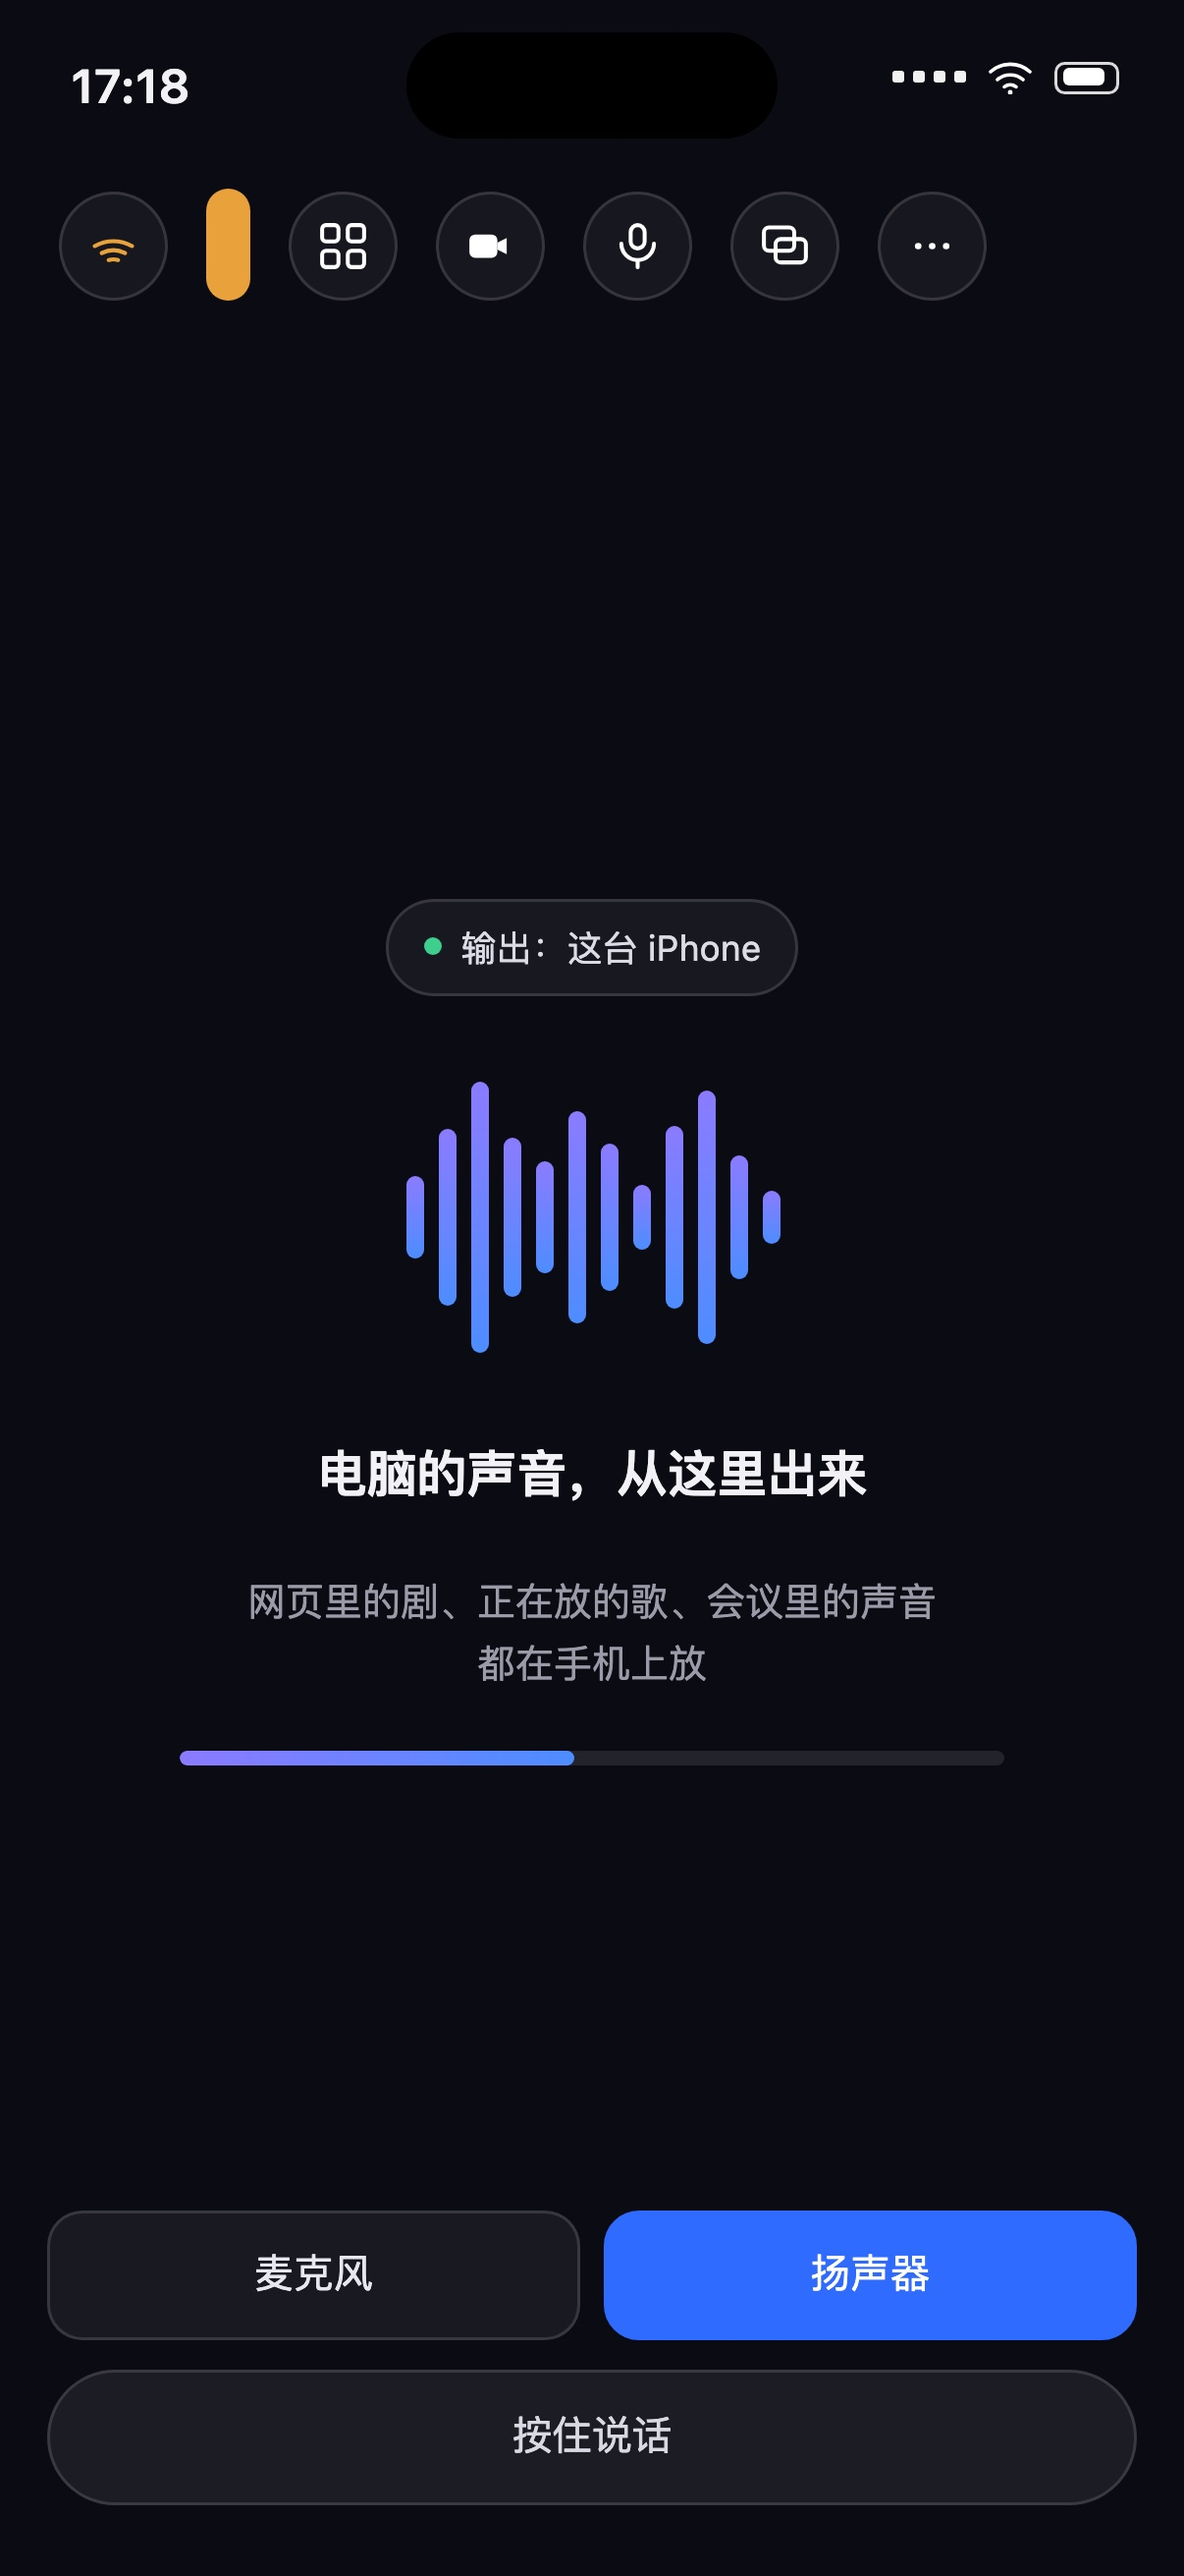
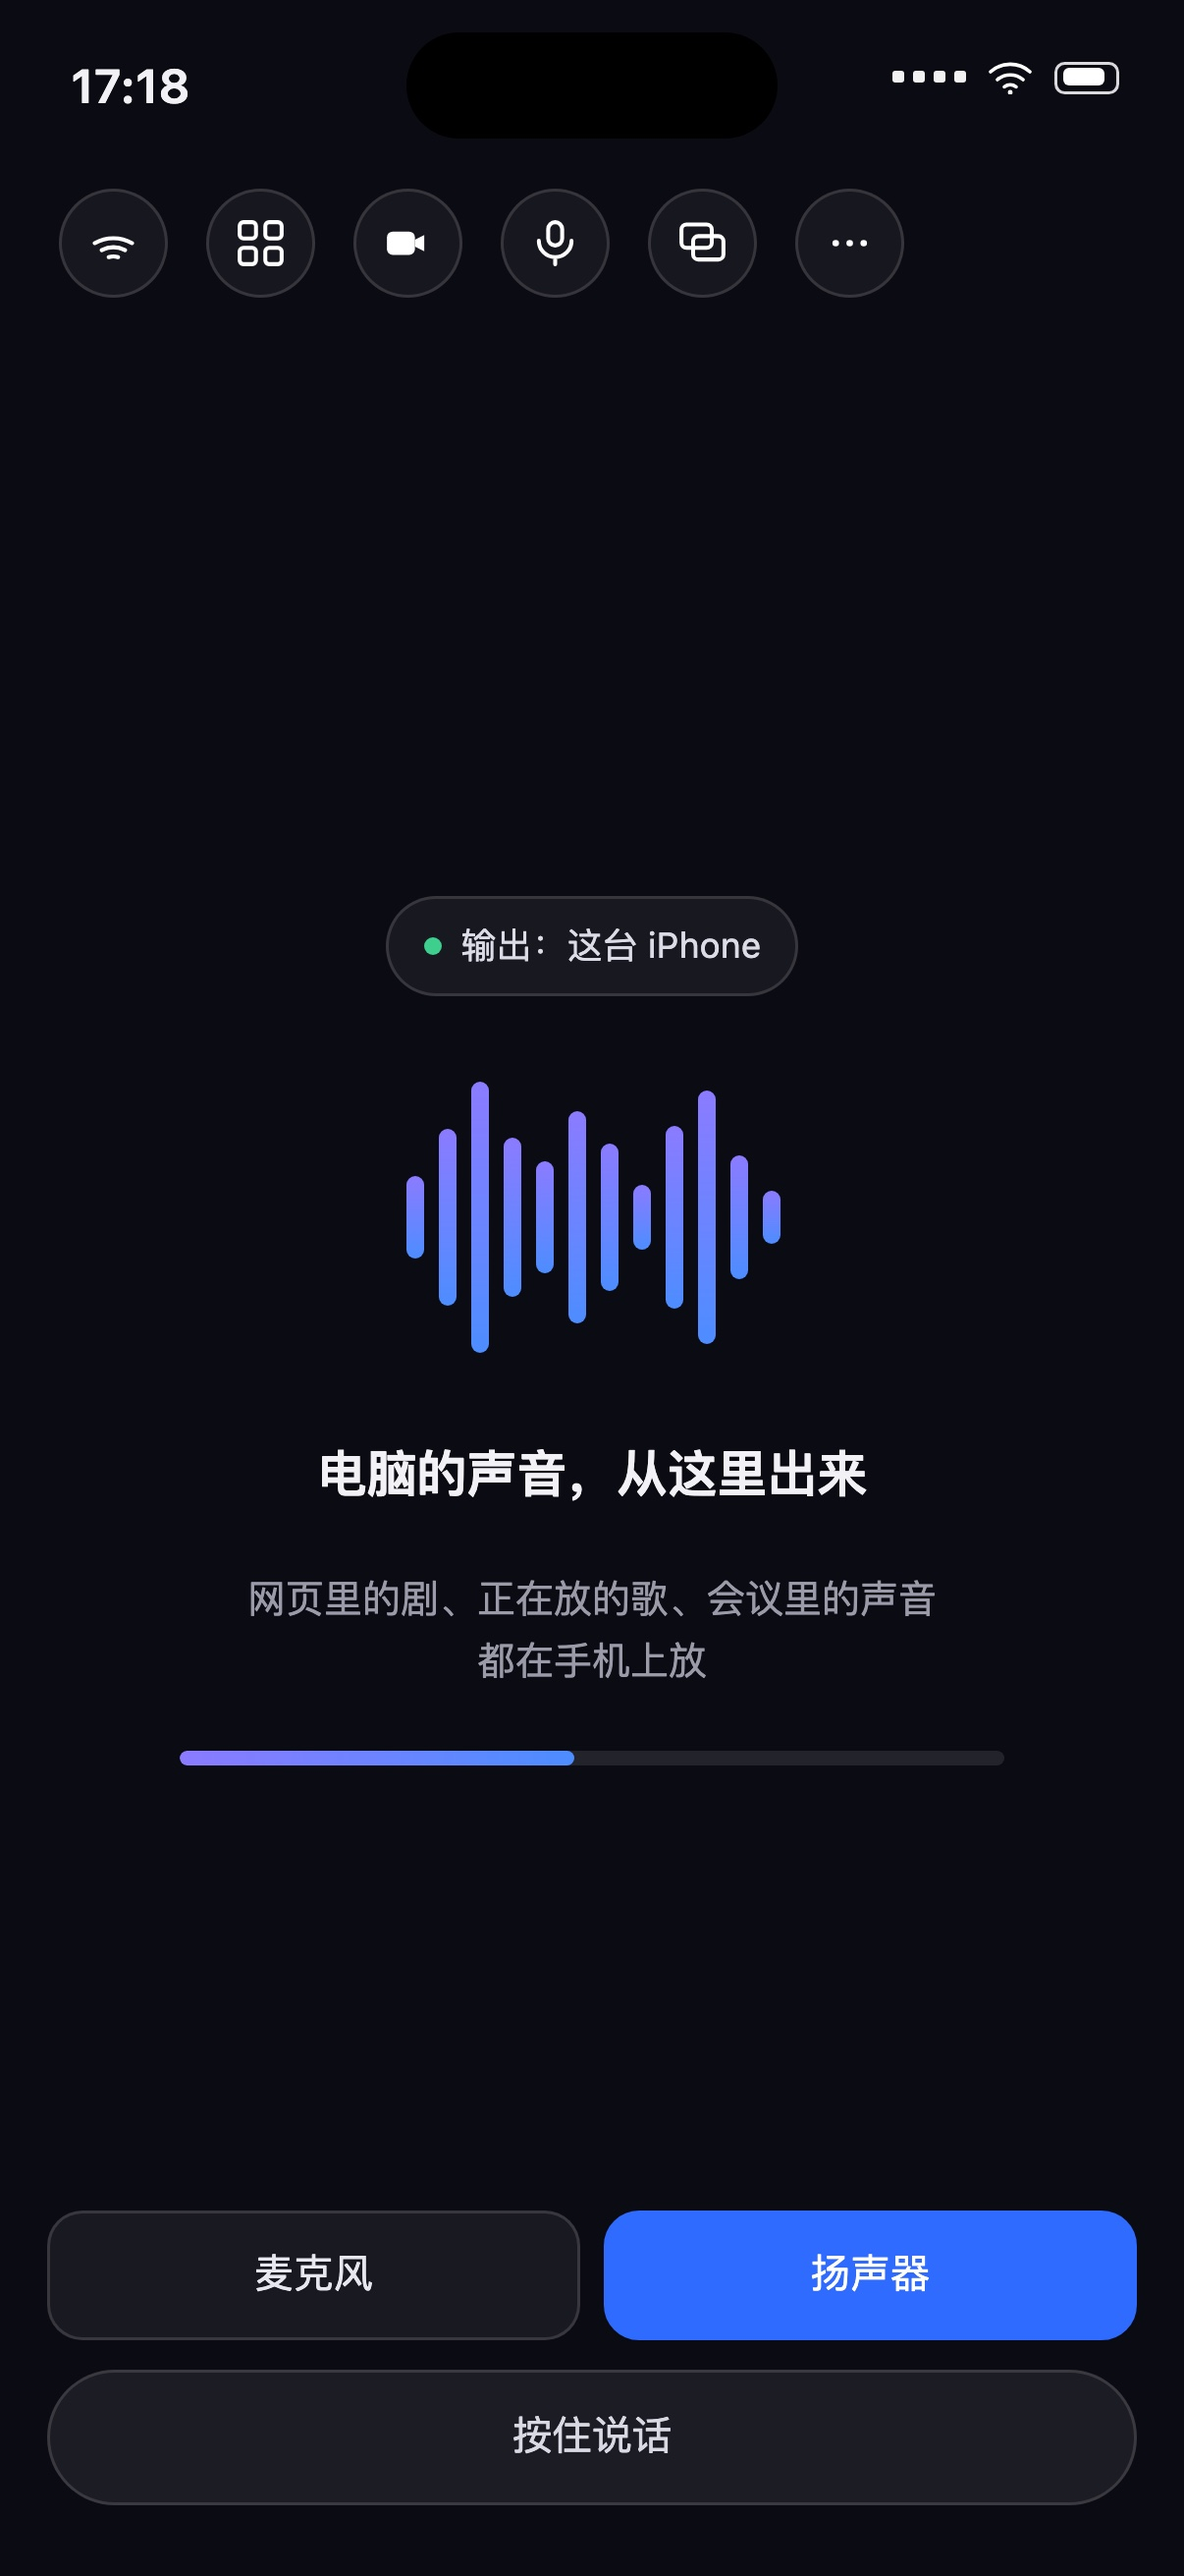
polish(remotecrab): 去掉配图工具栏里的橙色元素
用户确认真机上没有那条橙色竖条。旧截图里确实有（橙色投射 + 橙条），
但以现在的 app 为准：工具栏改成和其它图标一致的白色，五个屏幕一起重渲染。

diff --git a/scripts/mock/feature-screens.html b/scripts/mock/feature-screens.html
@@ -7,7 +7,7 @@
   :root{
     --bg:#0b0b12; --surface:rgba(255,255,255,.05); --line:rgba(255,255,255,.13);
     --text:#f2f2f5; --muted:#9a9aa8;
-    --a:#8b7bff; --b:#4d8dff; --blue:#2f6bff; --orange:#e9a23b;
+    --a:#8b7bff; --b:#4d8dff; --blue:#2f6bff; --orange:#e9a23b; /* 仅保留给别处可能的强调色，工具栏不用 */
   }
   *{box-sizing:border-box;margin:0;padding:0}
   body{background:#000;font:15px/1.45 -apple-system,BlinkMacSystemFont,"SF Pro Text","PingFang SC",sans-serif;color:var(--text)}
@@ -31,10 +31,8 @@
   .tb{width:37px;height:37px;border-radius:50%;background:var(--surface);border:1px solid var(--line);
       display:grid;place-items:center;flex:none}
   .tb svg{width:19px;height:19px;stroke:#fff;fill:none;stroke-width:1.7;stroke-linecap:round;stroke-linejoin:round}
-  .tb.cast svg{stroke:var(--orange)}
   .tb.active{background:var(--blue);border-color:var(--blue)}
   .tb.active svg{stroke:#fff}
-  .pill{width:15px;height:38px;border-radius:7.5px;background:var(--orange);flex:none}
   .spacer{flex:1}
 
   /* ---------- 底部 ---------- */
@@ -244,8 +242,7 @@
         </span>
       </div>
       <div class="toolbar">
-        <div class="tb cast">${svg('cast')}</div>
-        <div class="pill"></div>
+        <div class="tb">${svg('cast')}</div>
         <div class="tb">${svg('grid')}</div>
         <div class="tb ${active === 'camera' ? 'active' : ''}">${svg('camera')}</div>
         <div class="tb ${active === 'mic' ? 'active' : ''}">${svg('mic')}</div>

diff --git a/docs/TODO-remotecrab-site.md b/docs/TODO-remotecrab-site.md
@@ -51,6 +51,11 @@
       站点上 `apps.apple.com/app/id6811599153` 换成带 `pt`（provider token）+ `ct` 的 campaign 链接，
       这样 ASC 的「来源」能单独看出「从官网来的」。零成本，改一处。
 
+- [x] **D3. 配图工具栏里的橙色元素已去掉（2026-11-12）**
+      旧的真机截图里有一个橙色投射图标 + 一条橙色竖条，但用户确认现在 app 里没有。
+      配图（`scripts/mock/feature-screens.html`）里已全部改成白色图标，
+      **不要**照旧截图把它加回去。
+
 - [ ] **E. `/alternatives/` 要不要吃精确竞品词**
       现状：正文只有类别名（「系统自带」「只管摄像头的 App」），`keywords` 里有 Sidecar 等词。
       要吃到「Sidecar 替代」这类搜索，正文必须出现那些词 —— 这是取舍，需拍板。
